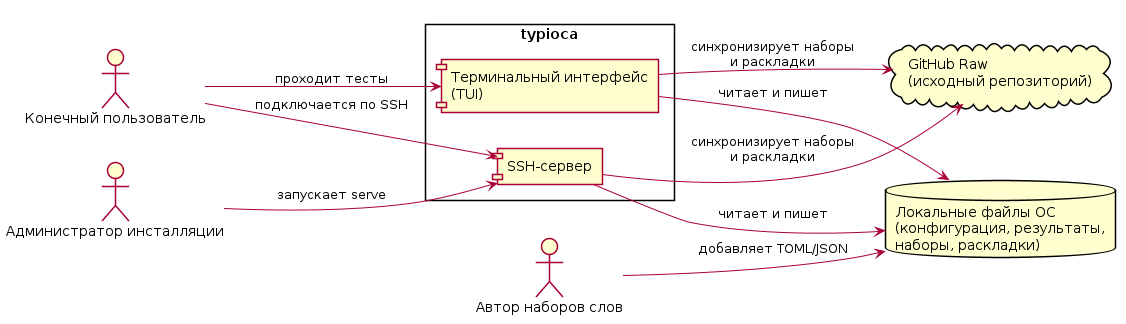
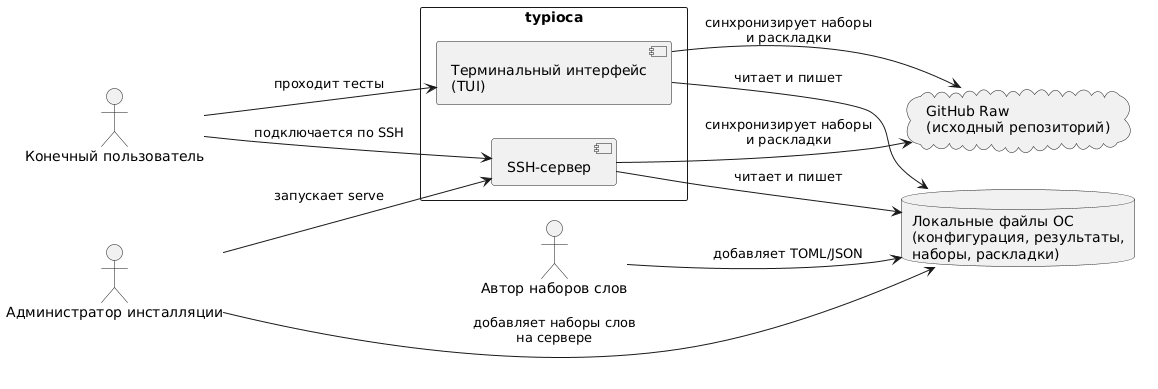
docs: add custom word lists to lab-2 requirements

diff --git a/docs/01-requirements.md b/docs/01-requirements.md
@@ -1,7 +1,7 @@
 # Требования к проекту typioca
 
-Версия документа: 1.0
-Дата: 09.11.2026
+Версия документа: 1.1
+Дата: 19.11.2026
 Проект: форк <https://github.com/bloznelis/typioca>, база `baf4170`.
 
 ## 1. О приложении
@@ -17,12 +17,14 @@ CPM, точность и график по секундам.
 | --- | --- |
 | Конечный пользователь | Проходит тесты, выбирает наборы и раскладку, смотрит результаты |
 | Автор наборов слов | Подключает свои списки через TOML |
-| Администратор инсталляции | Запускает `typioca serve` и настраивает SSH-доступ |
+| Администратор инсталляции | Запускает `typioca serve`, настраивает SSH-доступ и добавляет наборы слов для пользователей сервера |
 
 **Что уже умеет приложение:** тесты на время, по количеству слов и по количеству
-предложений; выбор включённых наборов и раскладки; подсветку ошибок и курсора;
-исправление ввода через Backspace и `Ctrl+W`; расчёт WPM, CPM, точности, raw WPM
-и прироста к среднему; сохранение последних 25 результатов; SSH-сервер.
+предложений; выбор включённых наборов и раскладки; добавление собственного набора
+через TOML; подсветку ошибок и курсора; исправление ввода через Backspace
+и `Ctrl+W`; расчёт WPM, CPM, точности, raw WPM и прироста к среднему; сохранение
+последних 25 результатов; SSH-сервер; стандартные команды Cobra `help`
+и `completion`.
 
 **Термины**
 
@@ -82,8 +84,7 @@ CPM, точность и график по секундам.
 ### FR-7. Управление наборами и раскладками
 
 Конечный пользователь может включать, отключать, скачивать и удалять наборы
-и раскладки на экране `Config`. Автор наборов слов может подключить собственный
-список или раскладку через TOML-конфигурацию.
+и раскладки на экране `Config`.
 Приоритет: обязательно. Состояние: уже есть.
 Признак выполнения: изменения сохраняются в конфигурации и переживают перезапуск;
 ошибка загрузки не удаляет уже существующий файл.
@@ -103,6 +104,16 @@ CPM, точность и график по секундам.
 Приоритет: желательно. Состояние: нужно сделать.
 Признак выполнения: отдельный экран показывает до 25 последних результатов
 для выбранного режима и набора; при отсутствии истории показывается пустой список.
+
+### FR-10. Добавление своего набора слов
+
+Автор наборов слов (а на сервере — администратор инсталляции) может подключить
+свой список слов или предложений через локальный TOML-файл, не изменяя код.
+Приоритет: обязательно. Состояние: уже есть.
+Признак выполнения: блок `[[words]]` в `typioca.conf` указывает существующий
+файл; после перезапуска набор виден в `Config` как синхронизированный и доступен
+в меню тестов. Если файла нет, набор не появляется, остальные работают. В TUI
+такой набор только отображается: включение и путь задаются в файле.
 
 ### Ограничения NFR
 
@@ -226,6 +237,28 @@ raw WPM 50; приложение не блокирует ввод и не зав
 
 **Неверные данные:** если истории нет, показывается пустой список без ошибки.
 
+### US-10. Добавление своего набора слов (FR-10)
+
+- **Роль:** автор наборов слов; на сервере — администратор инсталляции.
+- **Вход:** файл `~/my-words.txt` с одним словом на строку и блок в
+  `$XDG_CONFIG_HOME/typioca/typioca.conf`:
+
+  ```toml
+  [[words]]
+  name = "My words"
+  path = "/home/user/my-words.txt"
+  sentences = false
+  enabled = true
+  ```
+
+- **Шаги:** добавить блок → перезапустить typioca → открыть `Config` → выбрать
+  набор в `Word count run` или `Time run`.
+- **Выход:** набор отмечен `[x] [x]` и доступен в тесте.
+
+**Неверные данные:** `path` указывает на отсутствующий файл. Набор остаётся
+несинхронизированным, в меню тестов не появляется, приложение запускается,
+остальные наборы доступны.
+
 ### Требование → сценарии
 
 | Требование | Сценарии |
@@ -239,6 +272,7 @@ raw WPM 50; приложение не блокирует ввод и не зав
 | FR-7 | US-7 |
 | FR-8 | US-8 |
 | FR-9 | US-9 |
+| FR-10 | US-10 |
 
 ## 4. Модели системы
 
@@ -247,14 +281,16 @@ raw WPM 50; приложение не блокирует ввод и не зав
 
 | Диаграмма | Файл | Назначение | Связь |
 | --- | --- | --- | --- |
-| Контекст | [puml](diagrams/context.puml), [png](diagrams/context.png) | Границы системы, роли и внешние системы | FR-1…FR-8 |
+| Контекст | [puml](diagrams/context.puml), [png](diagrams/context.png) | Границы системы, роли и внешние системы | FR-1…FR-8, FR-10 |
 | Деятельность | [puml](diagrams/activity-main.puml), [png](diagrams/activity-main.png) | Основной процесс прохождения теста | FR-1…FR-6 |
-| Варианты использования | [puml](diagrams/use-cases.puml), [png](diagrams/use-cases.png) | Варианты использования с номерами FR | FR-1…FR-8 |
+| Варианты использования | [puml](diagrams/use-cases.puml), [png](diagrams/use-cases.png) | Варианты использования с номерами FR | FR-1…FR-8, FR-10 |
 | Последовательность, успех | [puml](diagrams/sequence-word-test.puml), [png](diagrams/sequence-word-test.png) | Тест по словам и сохранение результата | US-2, FR-2 |
 | Последовательность, ошибка | [puml](diagrams/sequence-sync-error.puml), [png](diagrams/sequence-sync-error.png) | Ошибка синхронизации набора | US-7, FR-7 |
 | Классы / данные | [puml](diagrams/class-model.puml), [png](diagrams/class-model.png) | Пять сущностей предметной области | FR-1…FR-7 |
 | Состояния | [puml](diagrams/state-test-session.puml), [png](diagrams/state-test-session.png) | Жизненный цикл сеанса теста | US-1…US-3, FR-1…FR-3 |
 | Карта кода | [puml](diagrams/code-map.puml), [png](diagrams/code-map.png) | Файлы, функции и потоки данных для разработчика | весь код |
+
+FR-9 не показана на диаграмме вариантов использования: она ещё запланирована.
 
 Диаграмма состояний построена для сеанса теста: у него есть явный жизненный цикл
 от главного меню до результатов, поэтому отдельный объект «заявка» не требуется.

diff --git a/docs/00-project.md b/docs/00-project.md
@@ -28,7 +28,7 @@
 | --- | --- | --- |
 | Конечный пользователь | Студент, разработчик, любой пользователь терминала | Выбирает режим и набор слов, проходит тест, смотрит WPM/CPM/точность и историю |
 | Автор наборов слов | Пользователь, которому нужны свои тексты | Создаёт пользовательские списки слов и TOML-конфигурацию, включает/синхронизирует наборы |
-| Администратор инсталляции | Владелец машины или сервера | Запускает `typioca serve`, настраивает bind/port/ключ, обеспечивает доступ по SSH |
+| Администратор инсталляции | Владелец машины или сервера | Запускает `typioca serve`, настраивает bind/port/ключ, обеспечивает доступ по SSH, добавляет наборы слов для пользователей сервера |
 
 ## Три основные функции
 
@@ -56,15 +56,21 @@
 ## Структура
 
 - 5 сущностей: `WordSource`, `WordList`, `Layout`, `TestSession`, `TestResult`
-- 8 пользовательских функций:
+- 9 существующих пользовательских функций:
   1. Запуск теста на время (15/30/60/120 секунд).
   2. Запуск теста на количество слов (10/25/50/100).
   3. Запуск теста на количество предложений (1/5/15/30).
   4. Выбор включённого набора слов или предложений.
   5. Ввод текста с подсветкой курсора и ошибок, поддержка `Ctrl+W`.
   6. Просмотр WPM, CPM, точности, raw WPM, прироста результата и графика.
-  7. Управление наборами слов и раскладками, включая синхронизацию и TOML-конфигурацию.
+  7. Управление наборами слов и раскладками, включая синхронизацию.
   8. Запуск SSH-сервера и прохождение тестов через удалённое подключение.
+  9. Добавление собственного набора слов или предложений через TOML
+     (в TUI такой набор только отображается, редактируется через файл).
+
+CLI построен на Cobra: `typioca` запускает TUI, `typioca serve` — SSH-сервер.
+Стандартные `help` и `completion` Cobra доступны, но отдельными пользовательскими
+функциями проекта не считаются.
 
 ## Лицензия
 

diff --git a/CHANGELOG.md b/CHANGELOG.md
@@ -1,5 +1,23 @@
 # Журнал изменений
 
+## 1.1 — 19.11.2026
+
+Уточнение документа требований и паспорта проекта.
+
+### Добавлено
+
+- FR-10 и US-10: добавление своего набора слов через TOML.
+- Роль администратора инсталляции: наборы слов для пользователей сервера.
+- Вариант использования «Добавить набор слов» (FR-10) и стрелка на диаграмме
+  контекста.
+- `docs/00-project.md`: 9 пользовательских функций и примечание о стандартных
+  командах Cobra `help` и `completion`.
+
+### Изменено
+
+- FR-7 описывает только управление наборами и раскладками; подключение своего
+  списка вынесено в FR-10.
+
 ## 1.0 — 09.11.2026
 
 Версия 1.0 документа требований (лабораторная работа № 2).

diff --git a/README.md b/README.md
@@ -46,6 +46,7 @@ make build
 | FR-7 | Управление наборами и раскладками | обязательно | уже есть |
 | FR-8 | Тест через SSH | желательно | уже есть |
 | FR-9 | История результатов | желательно | нужно сделать |
+| FR-10 | Добавление своего набора слов | обязательно | уже есть |
 
 ## Синхронизация с upstream
 
